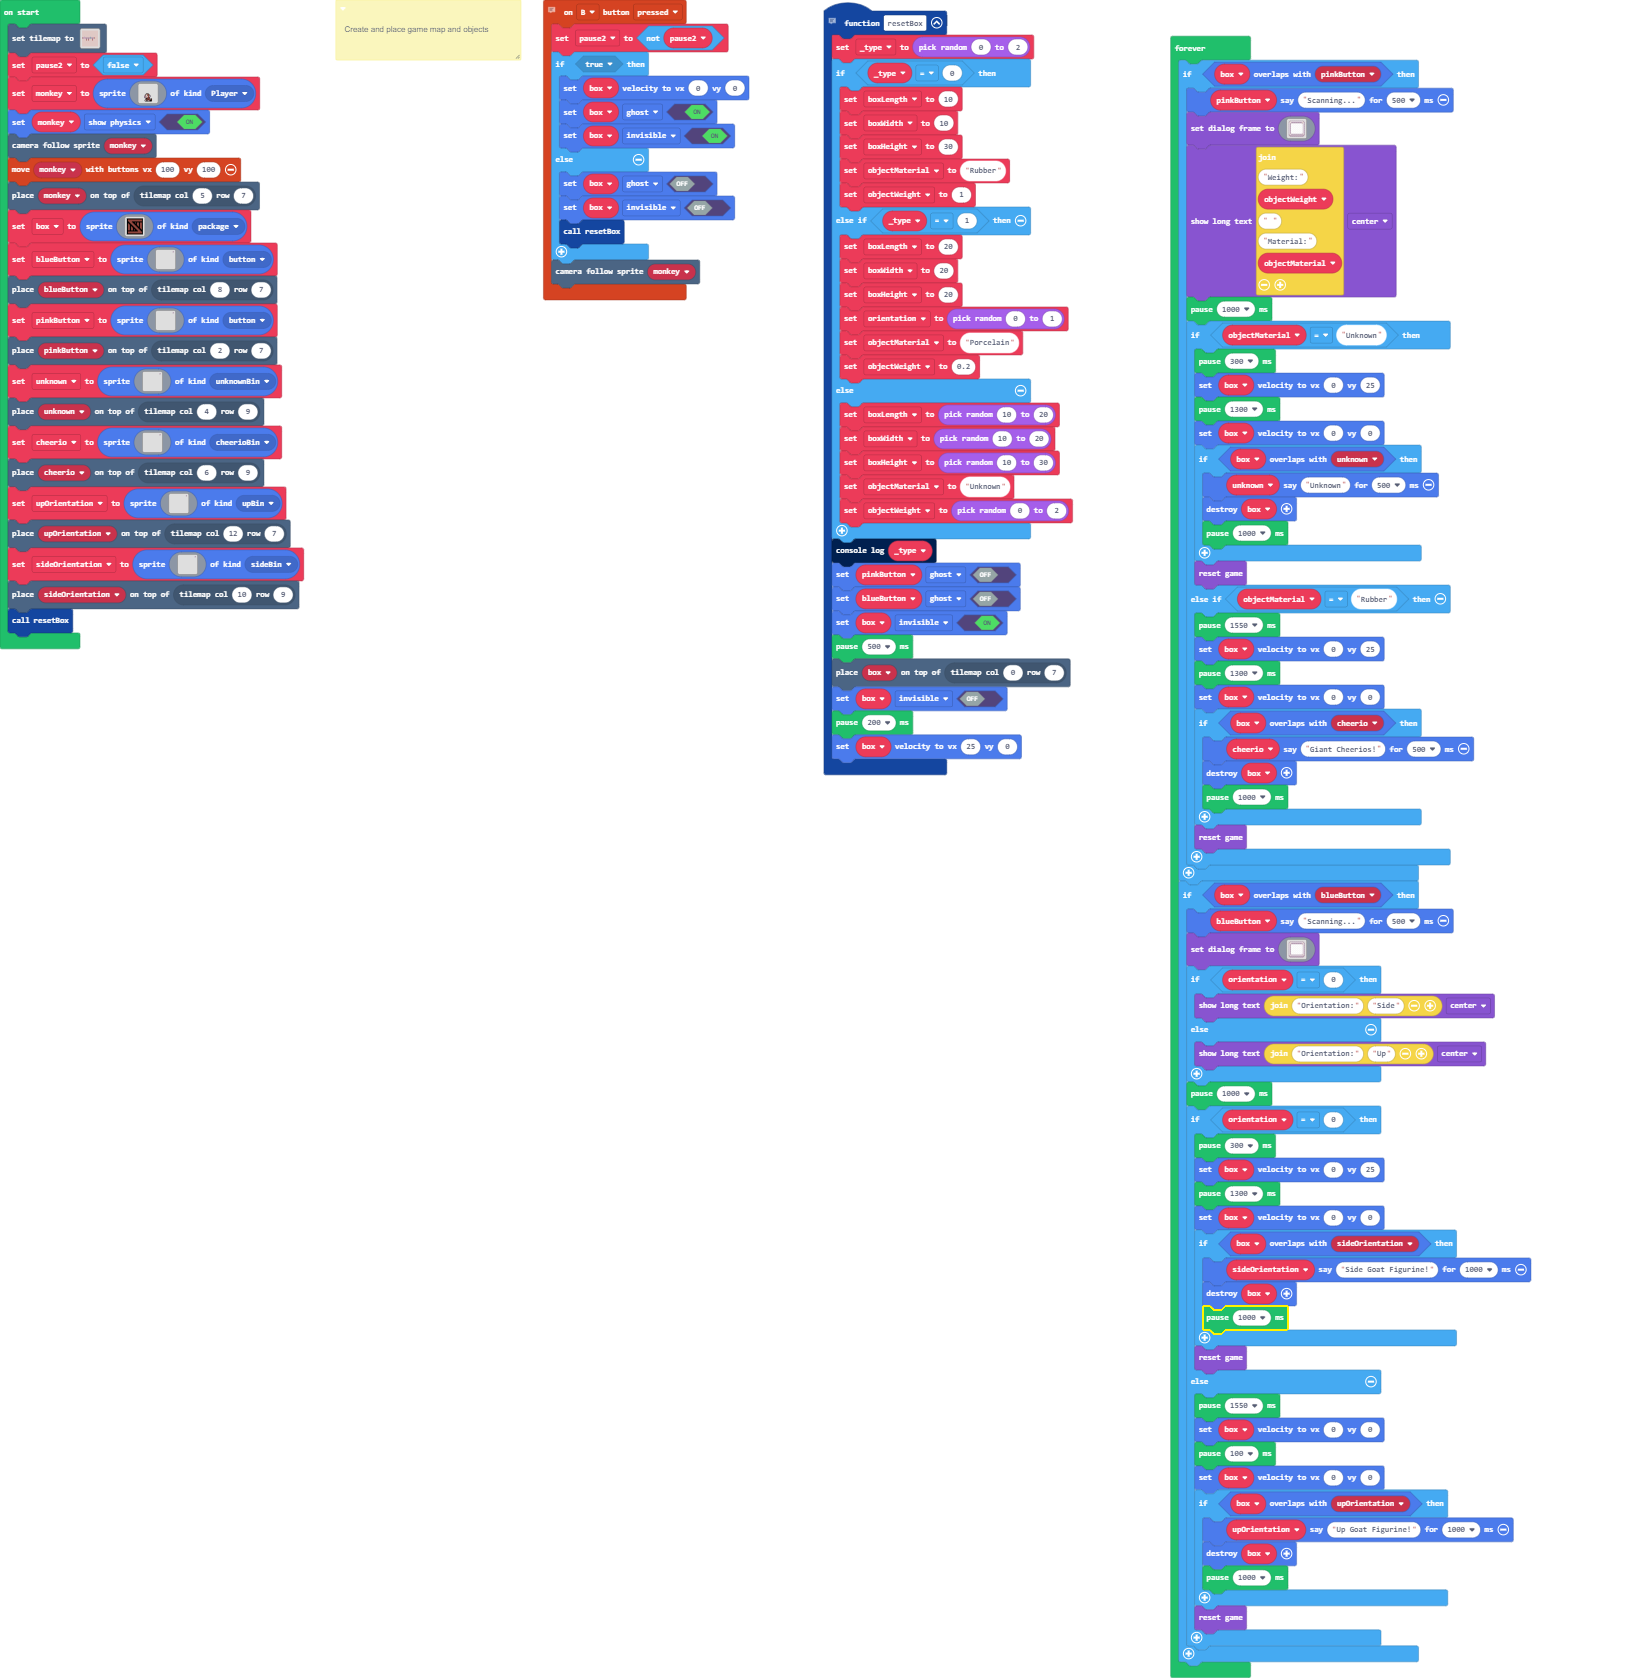
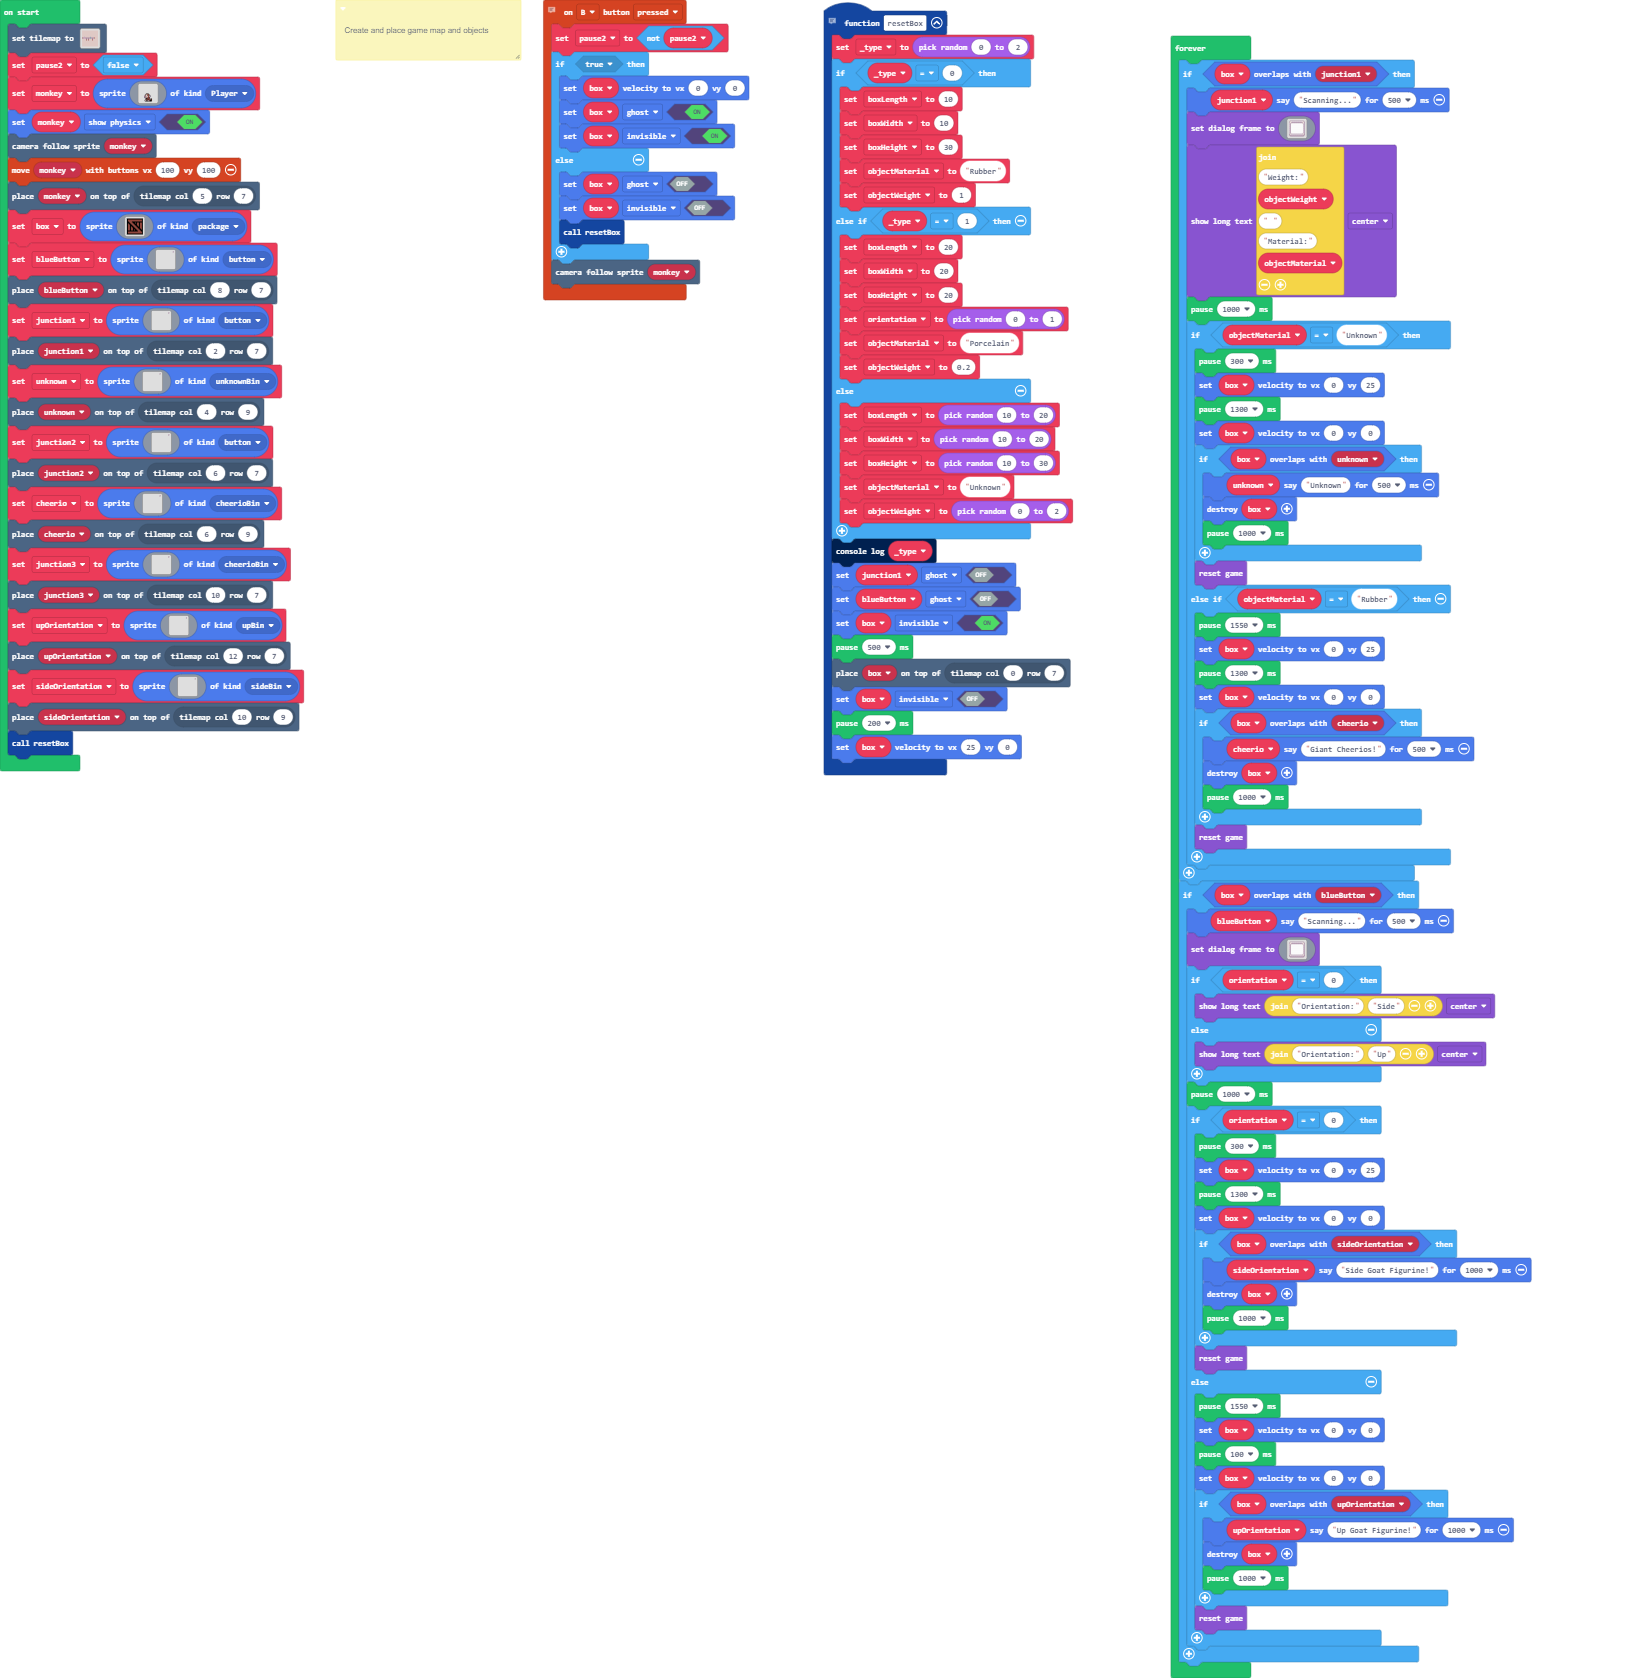
Update main.blocks, main.ts

diff --git a/main.ts b/main.ts
@@ -46,7 +46,7 @@ function resetBox () {
         objectWeight = randint(0, 2)
     }
     console.log(_type)
-    pinkButton.setFlag(SpriteFlag.Ghost, false)
+    junction1.setFlag(SpriteFlag.Ghost, false)
     blueButton.setFlag(SpriteFlag.Ghost, false)
     box.setFlag(SpriteFlag.Invisible, true)
     pause(500)
@@ -65,7 +65,7 @@ let boxHeight = 0
 let boxWidth = 0
 let boxLength = 0
 let _type = 0
-let pinkButton: Sprite = null
+let junction1: Sprite = null
 let blueButton: Sprite = null
 let box: Sprite = null
 let monkey: Sprite = null
@@ -147,7 +147,7 @@ blueButton = sprites.create(img`
     . . . . . . . . . . . . . . . . 
     `, SpriteKind.button)
 tiles.placeOnTile(blueButton, tiles.getTileLocation(8, 7))
-pinkButton = sprites.create(img`
+junction1 = sprites.create(img`
     . . . . . . . . . . . . . . . b 
     . . . . . . . . . . . . . . . . 
     . . . . . . . . . . . . . . . . 
@@ -165,7 +165,7 @@ pinkButton = sprites.create(img`
     . . . . . . . . . . . . . . . . 
     . . . . . . . . . . . . . . . . 
     `, SpriteKind.button)
-tiles.placeOnTile(pinkButton, tiles.getTileLocation(2, 7))
+tiles.placeOnTile(junction1, tiles.getTileLocation(2, 7))
 let unknown = sprites.create(img`
     . . . . . . . . . . . . . . . b 
     . . . . . . . . . . . . . . . . 
@@ -185,6 +185,25 @@ let unknown = sprites.create(img`
     . . . . . . . . . . . . . . . . 
     `, SpriteKind.unknownBin)
 tiles.placeOnTile(unknown, tiles.getTileLocation(4, 9))
+let junction2 = sprites.create(img`
+    . . . . . . . . . . . . . . . b 
+    . . . . . . . . . . . . . . . . 
+    . . . . . . . . . . . . . . . . 
+    . . . . . . . . . . . . . . . . 
+    . . . . . . . . . . . . . . . . 
+    . . . . . . . . . . . . . . . . 
+    . . . . . . . . . . . . . . . . 
+    . . . . . . . . . . . . . . . . 
+    . . . . . . . . . . . . . . . . 
+    . . . . . . . . . . . . . . . . 
+    . . . . . . . . . . . . . . . . 
+    . . . . . . . . . . . . . . . . 
+    . . . . . . . . . . . . . . . . 
+    . . . . . . . . . . . . . . . . 
+    . . . . . . . . . . . . . . . . 
+    . . . . . . . . . . . . . . . . 
+    `, SpriteKind.button)
+tiles.placeOnTile(junction2, tiles.getTileLocation(6, 7))
 let cheerio = sprites.create(img`
     . . . . . . . . . . . . . . . b 
     . . . . . . . . . . . . . . . . 
@@ -204,6 +223,25 @@ let cheerio = sprites.create(img`
     . . . . . . . . . . . . . . . . 
     `, SpriteKind.cheerioBin)
 tiles.placeOnTile(cheerio, tiles.getTileLocation(6, 9))
+let junction3 = sprites.create(img`
+    . . . . . . . . . . . . . . . b 
+    . . . . . . . . . . . . . . . . 
+    . . . . . . . . . . . . . . . . 
+    . . . . . . . . . . . . . . . . 
+    . . . . . . . . . . . . . . . . 
+    . . . . . . . . . . . . . . . . 
+    . . . . . . . . . . . . . . . . 
+    . . . . . . . . . . . . . . . . 
+    . . . . . . . . . . . . . . . . 
+    . . . . . . . . . . . . . . . . 
+    . . . . . . . . . . . . . . . . 
+    . . . . . . . . . . . . . . . . 
+    . . . . . . . . . . . . . . . . 
+    . . . . . . . . . . . . . . . . 
+    . . . . . . . . . . . . . . . . 
+    . . . . . . . . . . . . . . . . 
+    `, SpriteKind.cheerioBin)
+tiles.placeOnTile(junction3, tiles.getTileLocation(10, 7))
 let upOrientation = sprites.create(img`
     . . . . . . . . . . . . . . . b 
     . . . . . . . . . . . . . . . . 
@@ -244,8 +282,8 @@ let sideOrientation = sprites.create(img`
 tiles.placeOnTile(sideOrientation, tiles.getTileLocation(10, 9))
 resetBox()
 forever(function () {
-    if (box.overlapsWith(pinkButton)) {
-        pinkButton.say("Scanning...", 500)
+    if (box.overlapsWith(junction1)) {
+        junction1.say("Scanning...", 500)
         game.setDialogFrame(img`
             ..bbbbbbbbbbbbbbbbbbbb..
             .bd111111111111111111db.
